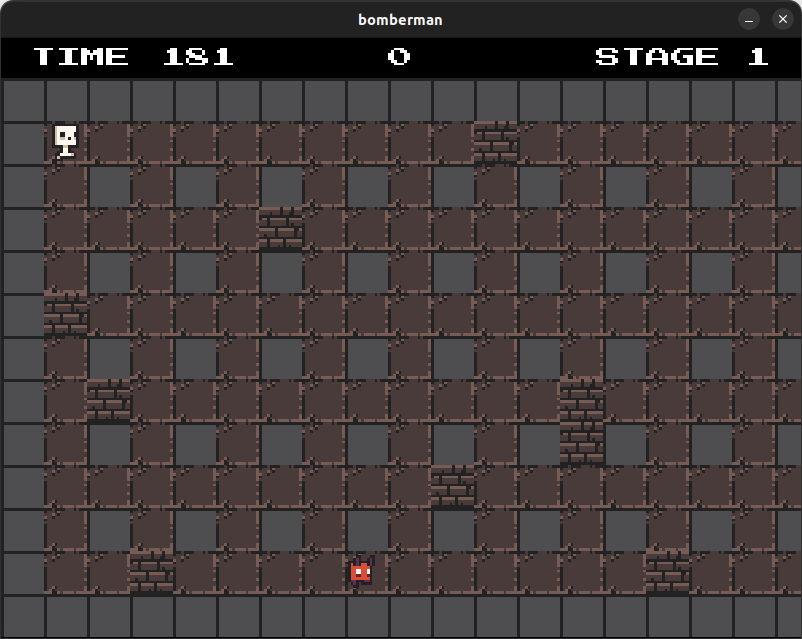
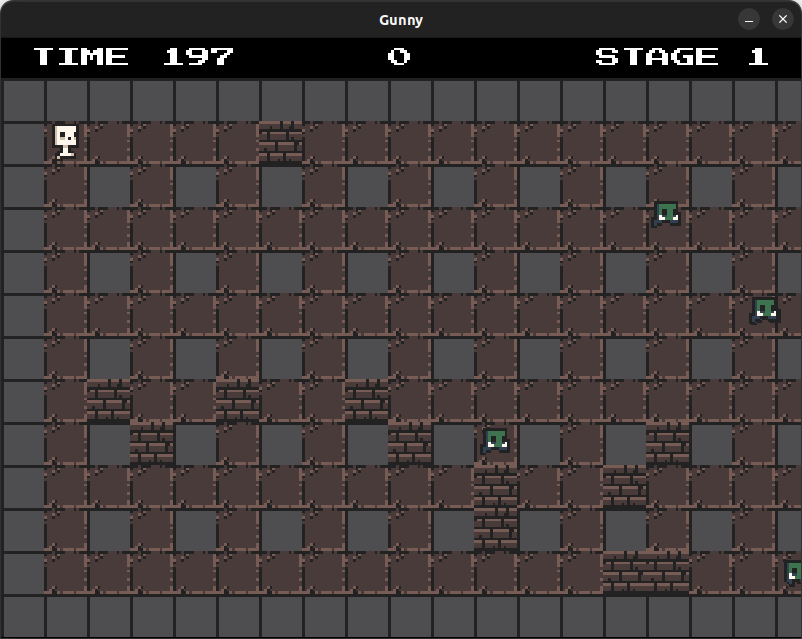
update assets

diff --git a/main.cpp b/main.cpp
@@ -7,7 +7,7 @@
 int main(int /*argc*/, char** /*argv[]*/)
 {
     // init game
-    Gunny::Game game(std::string("bomberman"), 800, 600);
+    Gunny::Game game(std::string("Gunny"), 800, 600);
     // run game loop
     game.run();
 
